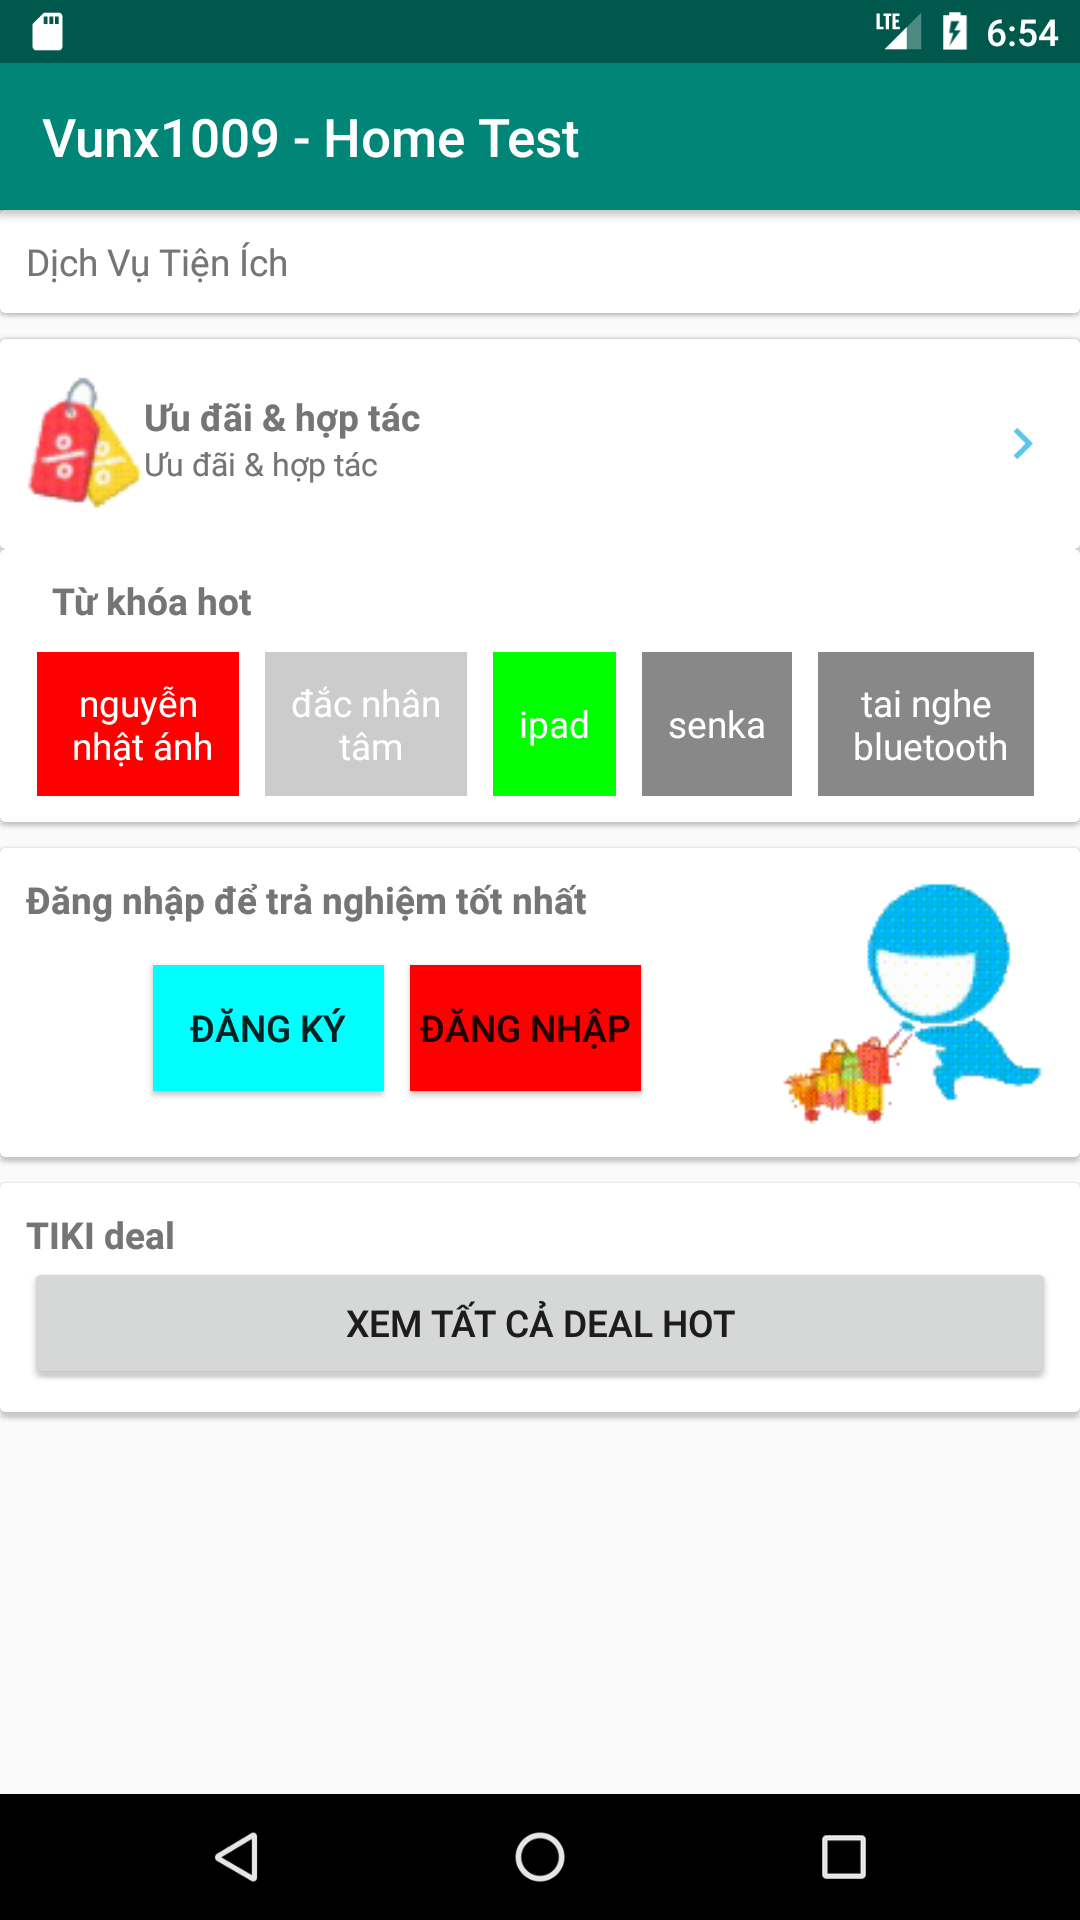
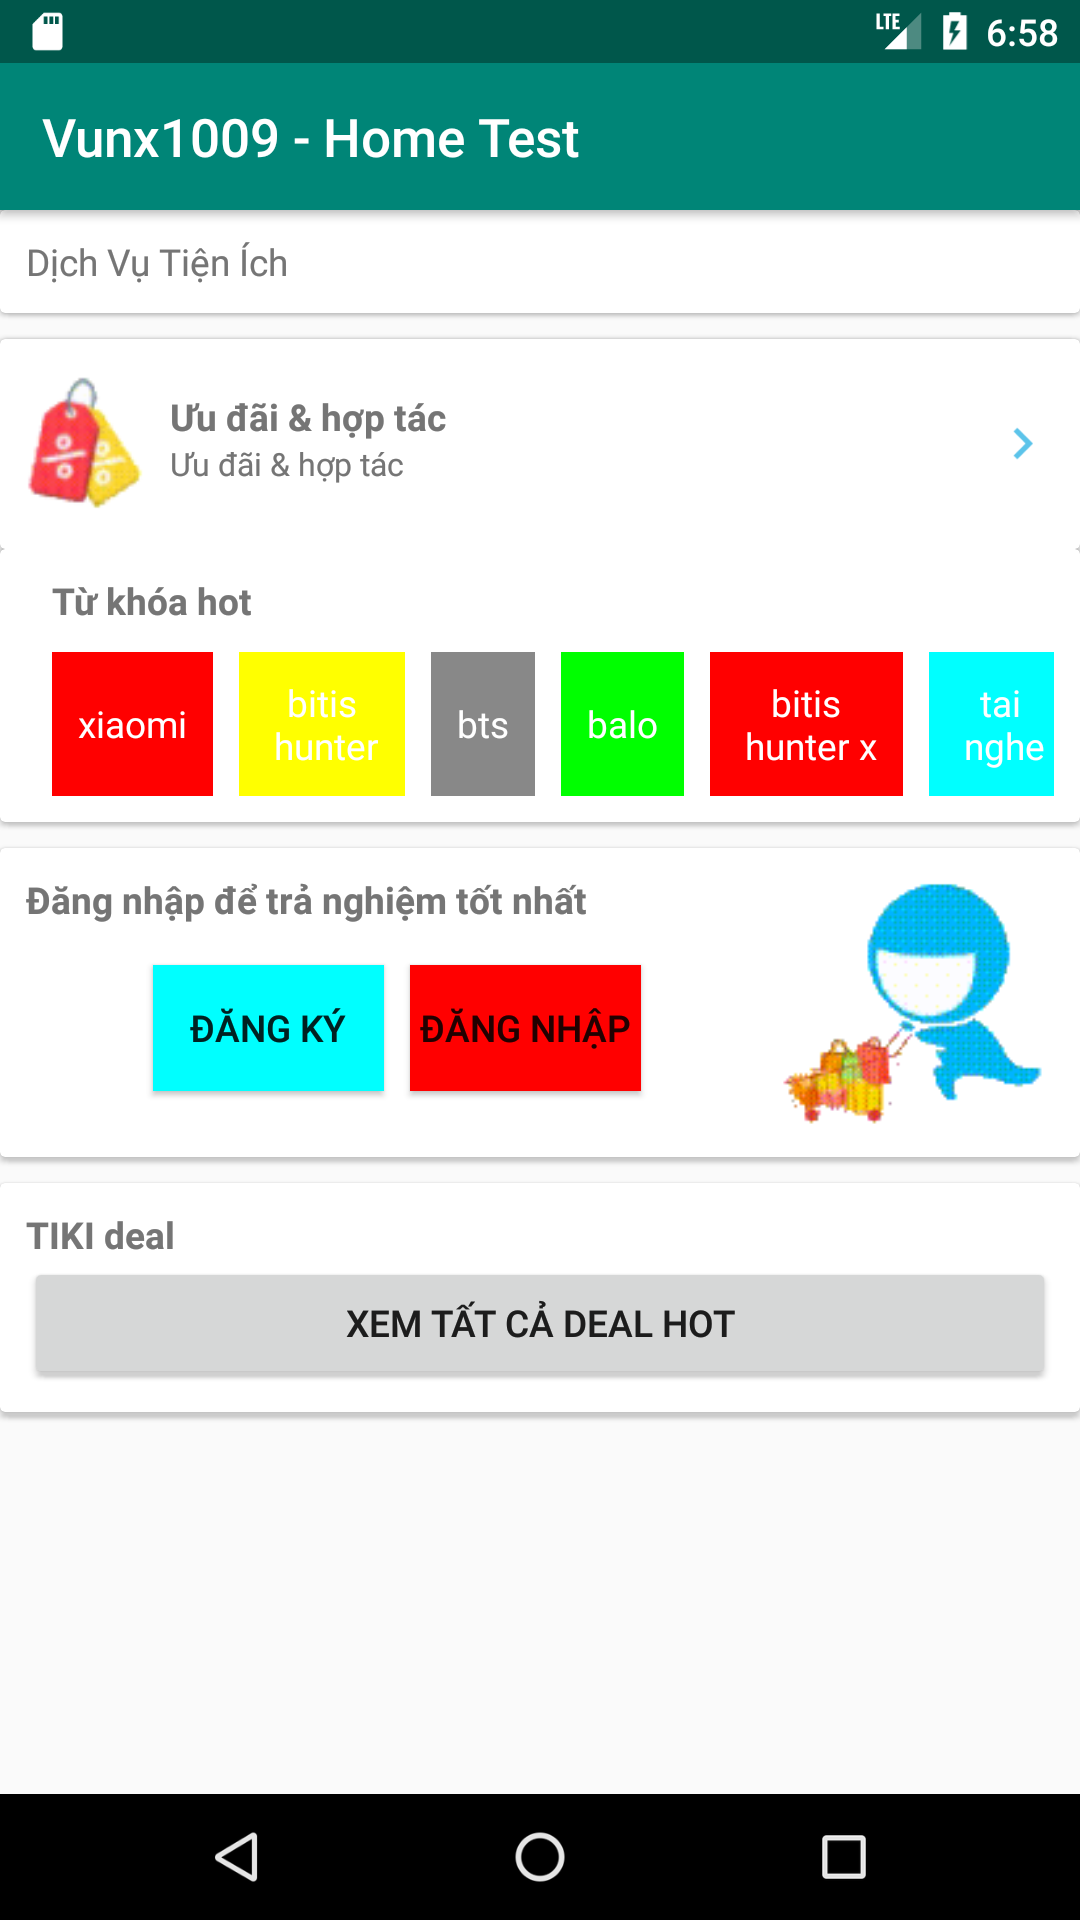
update README info and screenshot

Changed region(s): [[0.0306, 0.3125, 0.9778, 0.4375], [0.1222, 0.1875, 0.3972, 0.25], [0.9472, 0.0, 0.9778, 0.0312]]

diff --git a/README.md b/README.md
@@ -1,14 +1,16 @@
 # Vu Xuan Nguyen - Home Test
 
-A Demo app is a simple Android application that implement the requirement for loading keyword list.
-The home screen designed as below:
+A Demo application is a simple Android application that implement the requirements for loading keyword list.
+The Home Screen designed as below:
 
  ![](./homeScreen.png)
 
 The implementation are:
 
- * [*] If the keyword is more than one word, then display in two lines.
- * [*] Background color is random.
- * [*] Keywords can be fetched from asset.
- * [*] Write a unit test(KeywordUtilTest.class) for parsing keyword before displaying
- * [*] I used builder pattern for loading keyword list.
+ * [x] If the keyword is more than one word, then display in two lines.
+ * [x] Background color is random.
+ * [x] Keywords can be fetched from asset.
+ * [x] Write a simple unit test(KeywordTool Test.class) for parsing keyword before displaying
+ * [x] I used builder pattern for loading keyword list.
+ 
+If you have any questions about this application please contact me via email(vunx1009@gmail.com)
